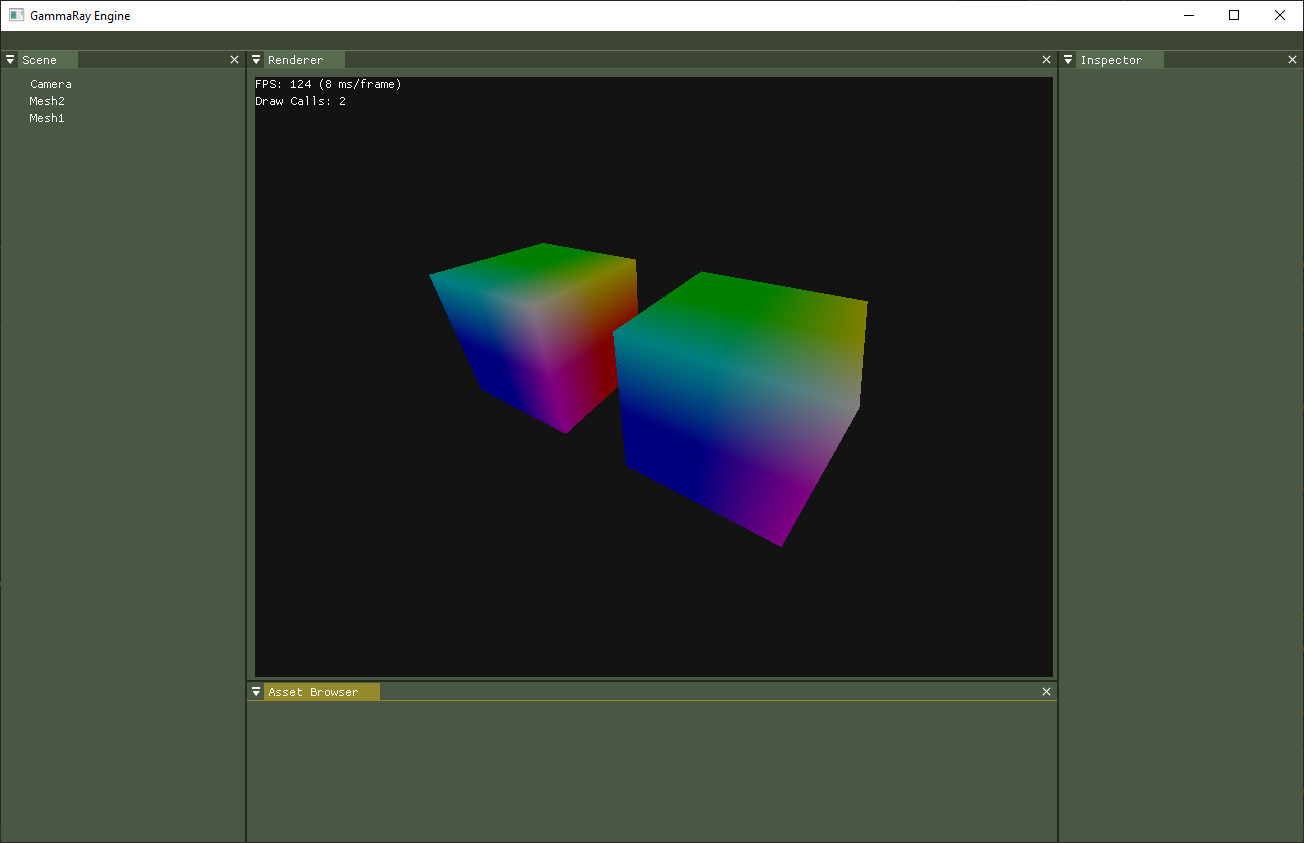
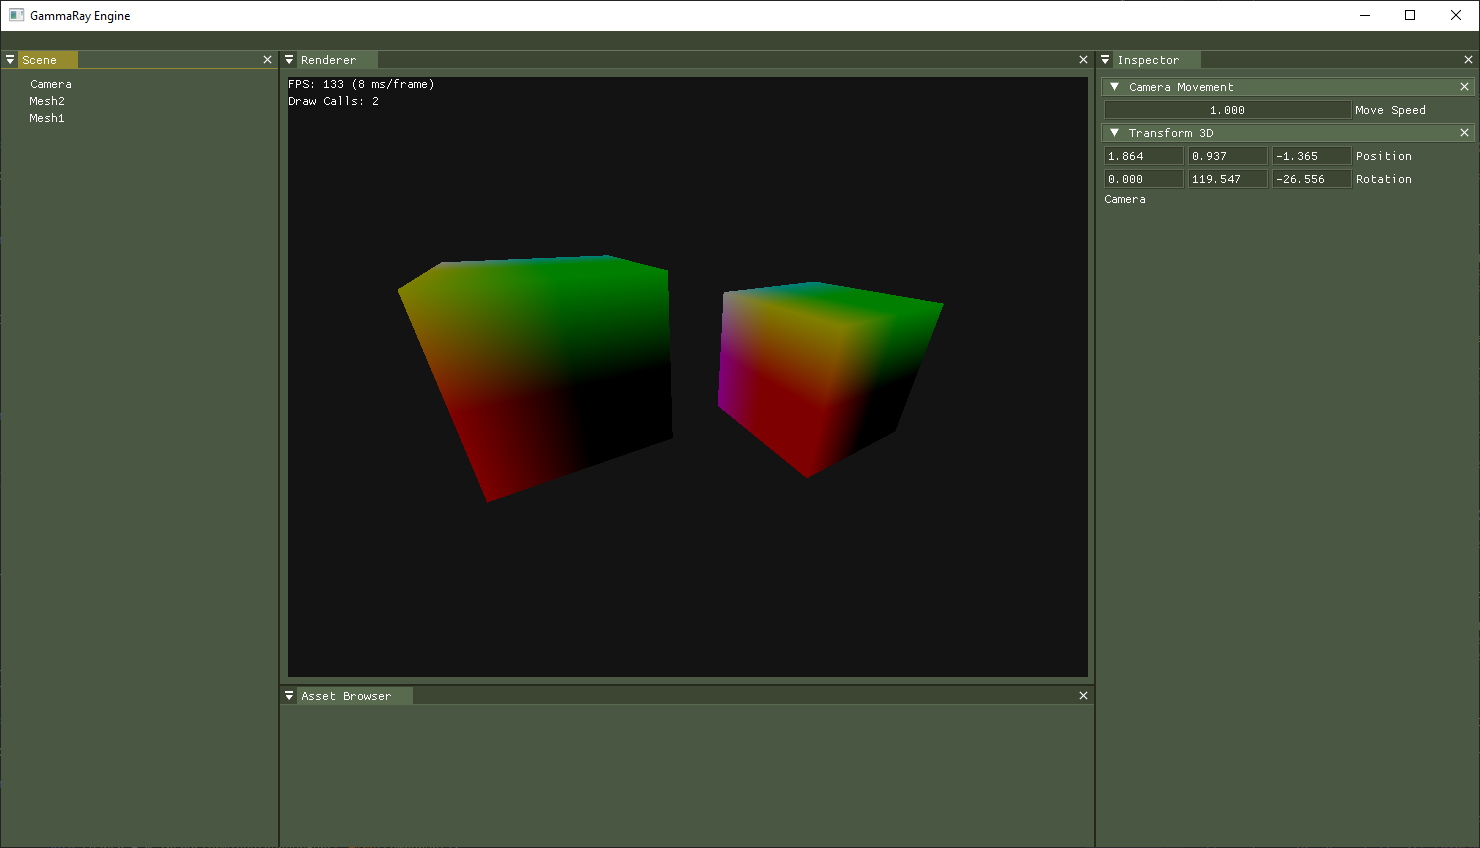
Inspector now working for very basic component types

diff --git a/GammaRay/Core/Debug/LayerImGui.cpp b/GammaRay/Core/Debug/LayerImGui.cpp
@@ -13,6 +13,40 @@
 #include "backends/imgui_impl_glfw.h"
 #include "imgui/imgui_internal.h"
 
+#define RegWidget(T, funcName) \
+RegisterComponentWidgetRenderFunc( \
+    entt::type_info<T>().id(), \
+    [this](entt::registry& reg, auto e) \
+    { \
+        auto& t = reg.get<T>(e); \
+        this->funcName(&t); \
+    } \
+);
+
+
+void LayerImGui::WidgetComponentSceneLink(ComponentSceneLink* c)
+{
+    ImGui::Text(c->entityName.c_str());
+}
+
+void LayerImGui::WidgetComponentTransform3D(ComponentTransform3D* c)
+{
+    static bool open = true;
+    if(ImGui::CollapsingHeader("Transform 3D", &open, ImGuiTreeNodeFlags_DefaultOpen))
+    {
+        ImGui::InputFloat3("Position", (float*)&c->position);
+        ImGui::InputFloat3("Rotation", (float*)&c->rotation);
+    }
+}
+
+void LayerImGui::WidgetComponentEditorCamera3DMovement(ComponentEditorCamera3DMovement* c)
+{
+    static bool open = true;
+    if(ImGui::CollapsingHeader("Camera Movement", &open, ImGuiTreeNodeFlags_DefaultOpen))
+    {
+        ImGui::DragFloat("Move Speed", &c->moveSpeed, 0.1f);
+    }
+}
 
 LayerImGui::LayerImGui()
     : Layer("ImGui")
@@ -106,6 +140,16 @@ void LayerImGui::OnAttach()
 
     ImGui_ImplGlfw_InitForOpenGL(window, true);
     ImGui_ImplOpenGL3_Init(glsl_version);
+
+    // Render funcs for component widgets in the inspector
+    SceneServer* sceneServer = SceneServer::GetSingleton();
+    entt::registry& registry = sceneServer->GetRawRegistry();
+
+    // Register widgets for each component
+    // TODO: I'm pretty sure this stuff shouldn't be in this class but it will stay here for now until I find a better place for it
+    RegWidget(ComponentSceneLink, WidgetComponentSceneLink);
+    RegWidget(ComponentTransform3D, WidgetComponentTransform3D);
+    RegWidget(ComponentEditorCamera3DMovement, WidgetComponentEditorCamera3DMovement);
 }
 
 
@@ -155,136 +199,125 @@ void LayerImGui::End()
 
 void LayerImGui::OnImGuiRender()
 {
+    const Timestep& frameTimestep = RenderServer::GetSingleton()->GetFrameTime();
+    float frameTimeMs = frameTimestep.GetMilliseconds();
+
+    ImGuiIO& io = ImGui::GetIO();
+
+    bool open = true;
+
+    ImGuiWindowFlags window_flags = ImGuiWindowFlags_MenuBar | ImGuiWindowFlags_NoDocking;
+    ImGuiViewport* viewport = ImGui::GetMainViewport();
+    ImGui::SetNextWindowPos(viewport->Pos);
+    ImGui::SetNextWindowSize(viewport->Size);
+    ImGui::SetNextWindowViewport(viewport->ID);
+    ImGui::PushStyleVar(ImGuiStyleVar_WindowRounding, 0.0f);
+    ImGui::PushStyleVar(ImGuiStyleVar_WindowBorderSize, 0.0f);
+    window_flags |= ImGuiWindowFlags_NoTitleBar | ImGuiWindowFlags_NoCollapse | ImGuiWindowFlags_NoResize | ImGuiWindowFlags_NoMove;
+    window_flags |= ImGuiWindowFlags_NoBringToFrontOnFocus | ImGuiWindowFlags_NoNavFocus;
+
+    ImGui::PushStyleVar(ImGuiStyleVar_WindowPadding, ImVec2(0.0f, 0.0f));
+    ImGui::Begin("DockSpace", &open, window_flags);
+    ImGui::PopStyleVar();
+
+    ImGui::PopStyleVar(2);
+
+    if(ImGui::DockBuilderGetNode(ImGui::GetID("MyDockspace")) == NULL)
     {
-        ImGuiIO& io = ImGui::GetIO();
-
-        bool open = true;
-
-        ImGuiWindowFlags window_flags = ImGuiWindowFlags_MenuBar | ImGuiWindowFlags_NoDocking;
-        ImGuiViewport* viewport = ImGui::GetMainViewport();
-        ImGui::SetNextWindowPos(viewport->Pos);
-        ImGui::SetNextWindowSize(viewport->Size);
-        ImGui::SetNextWindowViewport(viewport->ID);
-        ImGui::PushStyleVar(ImGuiStyleVar_WindowRounding, 0.0f);
-        ImGui::PushStyleVar(ImGuiStyleVar_WindowBorderSize, 0.0f);
-        window_flags |= ImGuiWindowFlags_NoTitleBar | ImGuiWindowFlags_NoCollapse | ImGuiWindowFlags_NoResize | ImGuiWindowFlags_NoMove;
-        window_flags |= ImGuiWindowFlags_NoBringToFrontOnFocus | ImGuiWindowFlags_NoNavFocus;
-
-        ImGui::PushStyleVar(ImGuiStyleVar_WindowPadding, ImVec2(0.0f, 0.0f));
-        ImGui::Begin("DockSpace", &open, window_flags);
-        ImGui::PopStyleVar();
-
-        ImGui::PopStyleVar(2);
-
-        if(ImGui::DockBuilderGetNode(ImGui::GetID("MyDockspace")) == NULL)
-        {
-            ImGuiID dockspace_id = ImGui::GetID("MyDockspace");
-            ImGuiViewport* viewport = ImGui::GetMainViewport();
-            ImGui::DockBuilderRemoveNode(dockspace_id); // Clear out existing layout
-            ImGui::DockBuilderAddNode(dockspace_id); // Add empty node
-
-            ImGuiID dock_main_id = dockspace_id; // This variable will track the document node, however we are not using it here as we aren't docking anything into it.
-            ImGuiID dock_id_left = ImGui::DockBuilderSplitNode(dock_main_id, ImGuiDir_Left, 0.20f, NULL, &dock_main_id);
-            ImGuiID dock_id_right = ImGui::DockBuilderSplitNode(dock_main_id, ImGuiDir_Right, 0.20f, NULL, &dock_main_id);
-            ImGuiID dock_id_bottom = ImGui::DockBuilderSplitNode(dock_main_id, ImGuiDir_Down, 0.20f, NULL, &dock_main_id);
-
-            ImGui::DockBuilderDockWindow("Scene", dock_id_left);
-            ImGui::DockBuilderDockWindow("Renderer", dock_main_id);
-            ImGui::DockBuilderDockWindow("Inspector", dock_id_right);
-            ImGui::DockBuilderDockWindow("Asset Browser", dock_id_bottom);
-            ImGui::DockBuilderFinish(dockspace_id);
-        }
-
         ImGuiID dockspace_id = ImGui::GetID("MyDockspace");
-        ImGui::DockSpace(dockspace_id, ImVec2(0.0f, 0.0f), 0);
-        ImGui::End();
+        ImGuiViewport* viewport = ImGui::GetMainViewport();
+        ImGui::DockBuilderRemoveNode(dockspace_id); // Clear out existing layout
+        ImGui::DockBuilderAddNode(dockspace_id); // Add empty node
 
-        SceneServer* sceneServer = SceneServer::GetSingleton();
-        entt::registry& registry = sceneServer->GetRawRegistry();
+        ImGuiID dock_main_id = dockspace_id; // This variable will track the document node, however we are not using it here as we aren't docking anything into it.
+        ImGuiID dock_id_left = ImGui::DockBuilderSplitNode(dock_main_id, ImGuiDir_Left, 0.20f, NULL, &dock_main_id);
+        ImGuiID dock_id_right = ImGui::DockBuilderSplitNode(dock_main_id, ImGuiDir_Right, 0.20f, NULL, &dock_main_id);
+        ImGuiID dock_id_bottom = ImGui::DockBuilderSplitNode(dock_main_id, ImGuiDir_Down, 0.20f, NULL, &dock_main_id);
 
-        if(ImGui::Begin("Scene", &open, 0))
-        {
-            static ImGuiTreeNodeFlags base_flags = ImGuiTreeNodeFlags_OpenOnArrow | ImGuiTreeNodeFlags_OpenOnDoubleClick | ImGuiTreeNodeFlags_SpanAvailWidth;
-            ImGuiTreeNodeFlags node_flags = base_flags;
-
-            const auto& view = registry.view<ComponentSceneLink>();
-            for(entt::entity entity : view)
-            {
-                const ComponentSceneLink& sceneLink = view.get<ComponentSceneLink>(entity);
-                node_flags |= ImGuiTreeNodeFlags_Leaf | ImGuiTreeNodeFlags_NoTreePushOnOpen; // ImGuiTreeNodeFlags_Bullet
-                ImGui::TreeNodeEx((void*)(intptr_t)0, node_flags, "%s", sceneLink.entityName.c_str());
-            }
-        }
-        ImGui::End();
-
-        if(ImGui::Begin("Renderer", &open, 0))
-        {
-            int texId = RenderServer::GetSingleton()->m_texColor->GetRendererId();
-
-            if(m_isControllingCamera == false && io.MouseDown[1] == true && ImGui::IsWindowHovered())
-            {
-                glfwSetInputMode((GLFWwindow*)Application::GetSingleton()->GetWindow()->GetNativeWindow(), GLFW_CURSOR, GLFW_CURSOR_DISABLED);
-                m_isControllingCamera = true;
-            }
-            else if(m_isControllingCamera == true && io.MouseDown[1] == false)
-            {
-                glfwSetInputMode((GLFWwindow*)Application::GetSingleton()->GetWindow()->GetNativeWindow(), GLFW_CURSOR, GLFW_CURSOR_NORMAL);
-                m_isControllingCamera = false;
-            }
-
-            if(m_isControllingCamera)
-            {
-                const auto& view = registry.view<ComponentEditorCamera3DMovement>();
-                for(entt::entity entity : view)
-                {
-                    ComponentEditorCamera3DMovement& camera3DMovement = view.get<ComponentEditorCamera3DMovement>(entity);
-                    camera3DMovement.UpdateRotationAndPosition({io.MouseDelta.x, io.MouseDelta.y});
-                }
-            }
-
-            ImGui::GetWindowDrawList()->AddImage(
-                (void*)texId,
-                ImVec2(ImGui::GetCursorScreenPos()),
-                ImVec2(ImGui::GetCursorScreenPos().x + 800,
-                    ImGui::GetCursorScreenPos().y + 600), ImVec2(0, 1), ImVec2(1, 0));
-
-            float frameTimeMs = RenderServer::GetSingleton()->GetFrameTime().GetMilliseconds();
-            ImGui::Text("FPS: %.0f (%.0f ms/frame)", round(1000.f / frameTimeMs), frameTimeMs);
-            ImGui::Text("Draw Calls: %d", RenderServer::GetSingleton()->GetDrawCallCount());
-        }
-        ImGui::End();
-
-        ImGui::Begin("Inspector", &open, 0);
-        ImGui::End();
-
-        ImGui::Begin("Asset Browser", &open, 0);
-        ImGui::End();
+        ImGui::DockBuilderDockWindow("Scene", dock_id_left);
+        ImGui::DockBuilderDockWindow("Renderer", dock_main_id);
+        ImGui::DockBuilderDockWindow("Inspector", dock_id_right);
+        ImGui::DockBuilderDockWindow("Asset Browser", dock_id_bottom);
+        ImGui::DockBuilderFinish(dockspace_id);
     }
 
-    return;
+    ImGuiID dockspace_id = ImGui::GetID("MyDockspace");
+    ImGui::DockSpace(dockspace_id, ImVec2(0.0f, 0.0f), 0);
+    ImGui::End();
 
+    SceneServer* sceneServer = SceneServer::GetSingleton();
+    entt::registry& registry = sceneServer->GetRawRegistry();
 
+    if(ImGui::Begin("Scene", &open, 0))
+    {
+        static ImGuiTreeNodeFlags base_flags = ImGuiTreeNodeFlags_OpenOnArrow | ImGuiTreeNodeFlags_OpenOnDoubleClick | ImGuiTreeNodeFlags_SpanAvailWidth;
+        ImGuiTreeNodeFlags node_flags = base_flags;
 
+        const auto& view = registry.view<ComponentSceneLink>();
+        for(entt::entity entity : view)
+        {
+            const ComponentSceneLink& sceneLink = view.get<ComponentSceneLink>(entity);
+            node_flags |= ImGuiTreeNodeFlags_Leaf | ImGuiTreeNodeFlags_NoTreePushOnOpen; // ImGuiTreeNodeFlags_Bullet
+            ImGui::TreeNodeEx((void*)(intptr_t)0, node_flags, "%s", sceneLink.entityName.c_str());
 
+            if(ImGui::IsItemClicked())
+                m_entitySelected = entity;
+        }
+    }
+    ImGui::End();
 
+    if(ImGui::Begin("Renderer", &open, 0))
+    {
+        int texId = RenderServer::GetSingleton()->m_texColor->GetRendererId();
 
+        if(m_isControllingCamera == false && io.MouseDown[1] == true && ImGui::IsWindowHovered())
+        {
+            glfwSetInputMode((GLFWwindow*)Application::GetSingleton()->GetWindow()->GetNativeWindow(), GLFW_CURSOR, GLFW_CURSOR_DISABLED);
+            m_isControllingCamera = true;
+        }
+        else if(m_isControllingCamera == true && io.MouseDown[1] == false)
+        {
+            glfwSetInputMode((GLFWwindow*)Application::GetSingleton()->GetWindow()->GetNativeWindow(), GLFW_CURSOR, GLFW_CURSOR_NORMAL);
+            m_isControllingCamera = false;
+        }
 
+        if(m_isControllingCamera)
+        {
+            const auto& view = registry.view<ComponentEditorCamera3DMovement>();
+            for(entt::entity entity : view)
+            {
+                ComponentEditorCamera3DMovement& camera3DMovement = view.get<ComponentEditorCamera3DMovement>(entity);
+                camera3DMovement.UpdateRotationAndPosition({io.MouseDelta.x, io.MouseDelta.y}, frameTimestep);
+            }
+        }
 
+        ImGui::GetWindowDrawList()->AddImage(
+            (void*)texId,
+            ImVec2(ImGui::GetCursorScreenPos()),
+            ImVec2(ImGui::GetCursorScreenPos().x + 800,
+                ImGui::GetCursorScreenPos().y + 600), ImVec2(0, 1), ImVec2(1, 0));
 
-    
+        ImGui::Text("FPS: %.0f (%.0f ms/frame)", round(1000.f / frameTimeMs), frameTimeMs);
+        ImGui::Text("Draw Calls: %d", RenderServer::GetSingleton()->GetDrawCallCount());
+    }
+    ImGui::End();
 
+    if(ImGui::Begin("Inspector", &open, 0))
+    {
+        if(m_entitySelected != entt::null)
+        {
+            registry.visit(m_entitySelected, [&](auto component)
+            {
+                auto search = m_inspectorWidgetRenderFuncs.find(component);
+                if(search != m_inspectorWidgetRenderFuncs.end())
+                {
+                    search->second(registry, m_entitySelected);
+                }
+            });
+        }
+    }
+    ImGui::End();
 
-
-
-
-
-
-
-
-
-
-
-
-
-    
+    ImGui::Begin("Asset Browser", &open, 0);
+    ImGui::End();
 }

diff --git a/GammaRay/Scene/Components/Gameplay/CameraMovement.h b/GammaRay/Scene/Components/Gameplay/CameraMovement.h
@@ -8,10 +8,11 @@
 #include "Scene/Components/Transform.h"
 #include "Scene/Components/Camera.h"
 
+
 struct ComponentEditorCamera3DMovement : public Component
 {
-    float moveSpeed = .04f;
-    float rotationSpeed = 0.2f;
+    float moveSpeed = 1.f;
+    float rotationSpeed = 20.f;
     bool isActiveCamera = true; // TODO: Needs to be false by default. But currently there's only one of these in the scene
     Vector2i mouseDelta = {0.f, 0.f};
 
@@ -24,14 +25,16 @@ struct ComponentEditorCamera3DMovement : public Component
     {
     }
 
-    void UpdateRotationAndPosition(const Vector2i& mouseDelta)
+    void UpdateRotationAndPosition(const Vector2i& mouseDelta, const Timestep& timestep)
     {
+        float deltaTime = timestep.GetSeconds();
+
         ComponentTransform3D& transform3D = owner.GetComponent<ComponentTransform3D>();
         ComponentCamera3D& camera = owner.GetComponent<ComponentCamera3D>();
 
         // Rotate camera
-        transform3D.rotation.y += mouseDelta.x * rotationSpeed;
-        transform3D.rotation.p -= mouseDelta.y * rotationSpeed;
+        transform3D.rotation.y += mouseDelta.x * rotationSpeed * deltaTime;
+        transform3D.rotation.p -= mouseDelta.y * rotationSpeed * deltaTime;
 
         transform3D.rotation.p = glm::fclamp(transform3D.rotation.p, -89.f, 89.f);
 
@@ -47,7 +50,6 @@ struct ComponentEditorCamera3DMovement : public Component
 
         // Move camera
         glm::vec2 wishDir = {0.f, 0.f};
-
         Input* input = Input::GetSingleton();
         if(input->IsKeyPressed(GR_KEY_A))
             wishDir.x = -1.f;
@@ -58,7 +60,7 @@ struct ComponentEditorCamera3DMovement : public Component
         if(input->IsKeyPressed(GR_KEY_S))
             wishDir.y = -1.f;
 
-        transform3D.position += camera.forward * wishDir.y * moveSpeed;
-        transform3D.position += camera.right * wishDir.x * moveSpeed;
+        transform3D.position += camera.forward * wishDir.y * moveSpeed * deltaTime;
+        transform3D.position += camera.right * wishDir.x * moveSpeed * deltaTime;
     }
 };

diff --git a/GammaRay/Core/Debug/LayerImGui.h b/GammaRay/Core/Debug/LayerImGui.h
@@ -2,9 +2,15 @@
 
 #include "Core/Layer.h"
 
+#include <entt/entt.hpp>
+
 
 class GAMMARAY_API LayerImGui : public Layer
 {
+    void WidgetComponentSceneLink(struct ComponentSceneLink* c);
+    void WidgetComponentTransform3D(struct ComponentTransform3D* c);
+    void WidgetComponentEditorCamera3DMovement(struct ComponentEditorCamera3DMovement* c);
+
 public:
     LayerImGui();
     ~LayerImGui();
@@ -17,8 +23,14 @@ public:
     virtual void Begin();
     virtual void End();
 
+    void RegisterComponentWidgetRenderFunc(entt::id_type id, std::function<void(entt::registry& reg, entt::entity e)> cb)
+    {
+        m_inspectorWidgetRenderFuncs[id] = cb;
+    }
 
 private:
     float m_time = 0.f;
     bool m_isControllingCamera = false;
+    entt::entity m_entitySelected = entt::null;
+    std::unordered_map<entt::id_type, std::function<void(entt::registry& reg, entt::entity e)>> m_inspectorWidgetRenderFuncs;
 };

diff --git a/GammaRay/Scene/Components/Transform.h b/GammaRay/Scene/Components/Transform.h
@@ -27,7 +27,6 @@ struct ComponentTransform3D : public Component
     _FORCE_INLINE_ bool isDirty() { return flags & 1; }
     _FORCE_INLINE_ void setDirty() { flags |= 1; }
     _FORCE_INLINE_ void resetDirty() { flags &= 0; }
-
 };
 
 struct ComponentTransformRect : public Component
